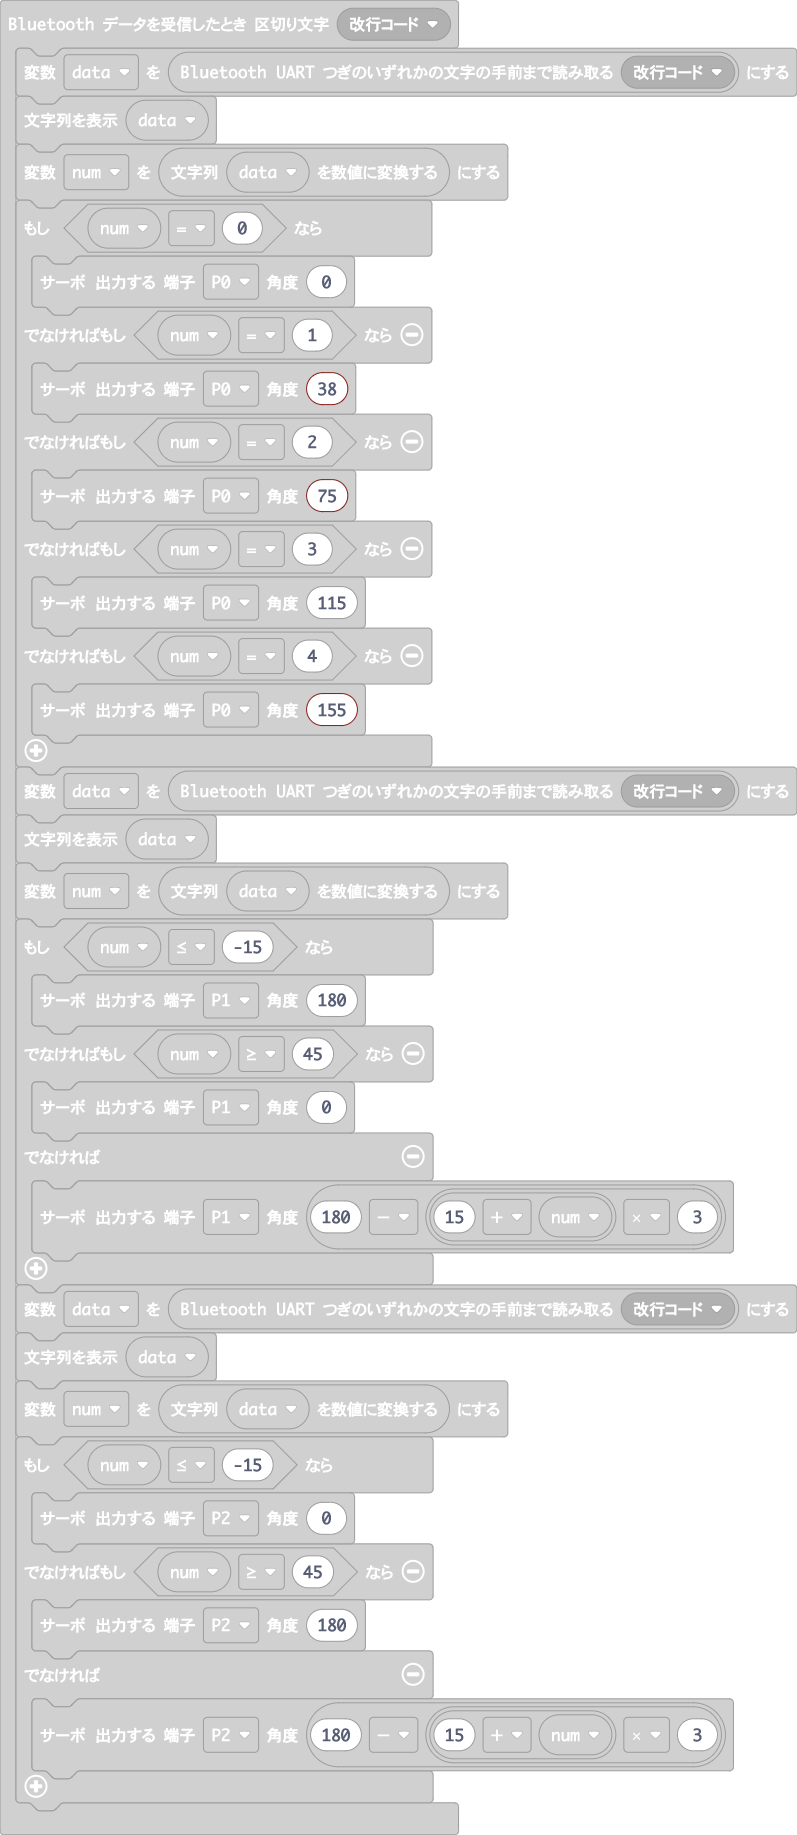
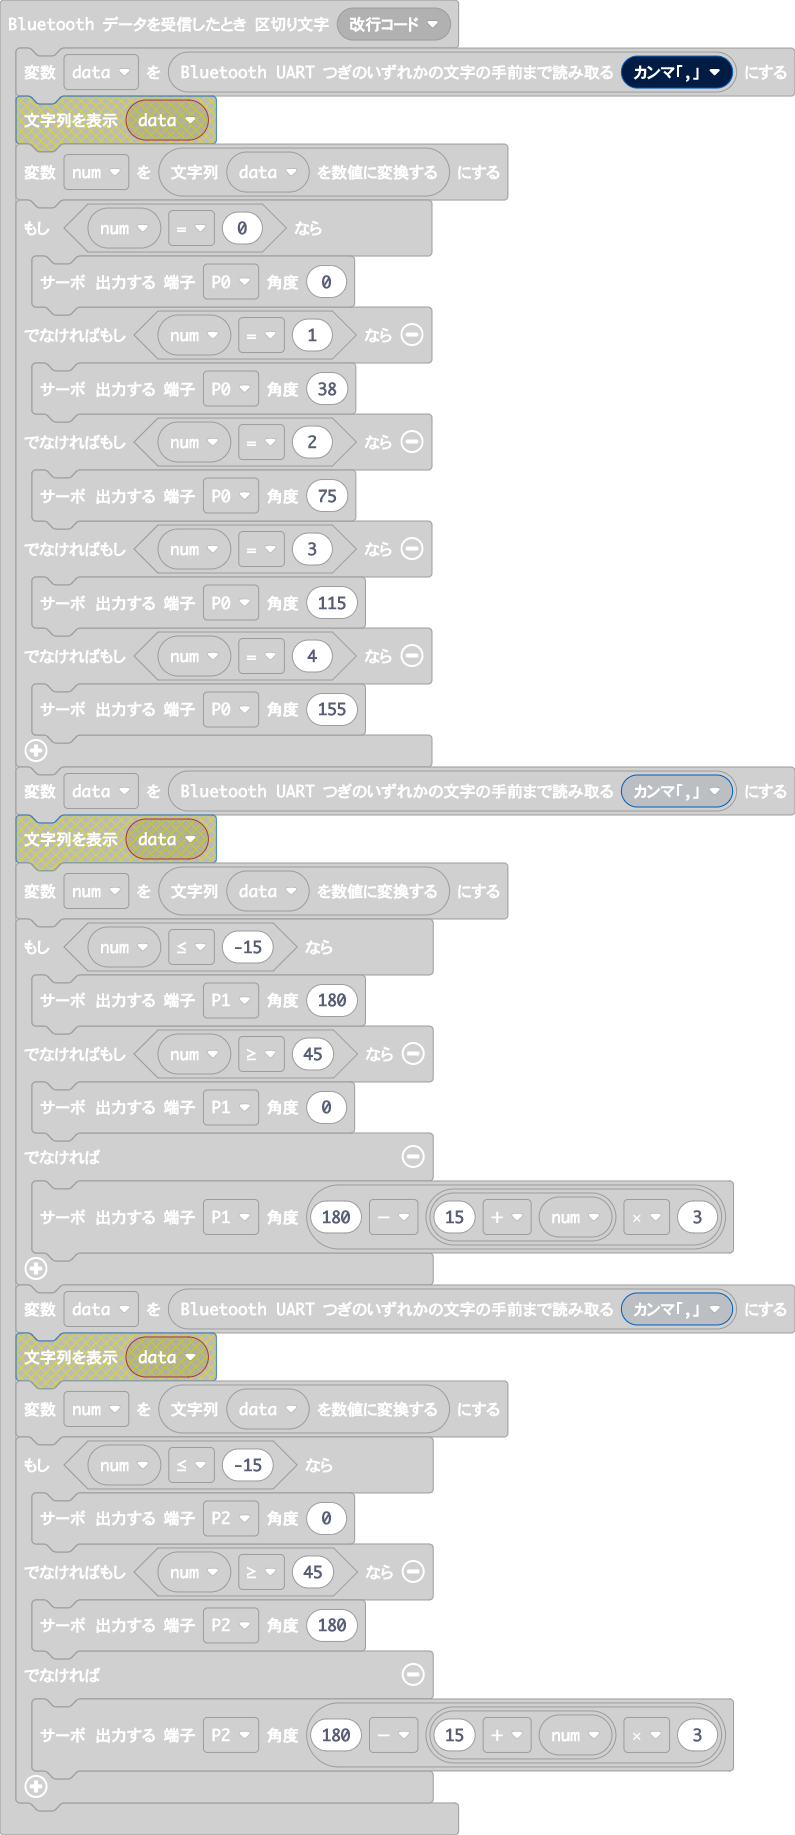
更新 main.blocks, main.ts

diff --git a/main.ts b/main.ts
@@ -5,8 +5,7 @@ bluetooth.onBluetoothDisconnected(function () {
     basic.showIcon(IconNames.No)
 })
 bluetooth.onUartDataReceived(serial.delimiters(Delimiters.NewLine), function () {
-    data = bluetooth.uartReadUntil(serial.delimiters(Delimiters.NewLine))
-    basic.showString(data)
+    data = bluetooth.uartReadUntil(serial.delimiters(Delimiters.Comma))
     num = parseFloat(data)
     if (num == 0) {
         pins.servoWritePin(AnalogPin.P0, 0)
@@ -19,8 +18,7 @@ bluetooth.onUartDataReceived(serial.delimiters(Delimiters.NewLine), function () 
     } else if (num == 4) {
         pins.servoWritePin(AnalogPin.P0, 155)
     }
-    data = bluetooth.uartReadUntil(serial.delimiters(Delimiters.NewLine))
-    basic.showString(data)
+    data = bluetooth.uartReadUntil(serial.delimiters(Delimiters.Comma))
     num = parseFloat(data)
     if (num <= -15) {
         pins.servoWritePin(AnalogPin.P1, 180)
@@ -29,8 +27,7 @@ bluetooth.onUartDataReceived(serial.delimiters(Delimiters.NewLine), function () 
     } else {
         pins.servoWritePin(AnalogPin.P1, 180 - (15 + num) * 3)
     }
-    data = bluetooth.uartReadUntil(serial.delimiters(Delimiters.NewLine))
-    basic.showString(data)
+    data = bluetooth.uartReadUntil(serial.delimiters(Delimiters.Comma))
     num = parseFloat(data)
     if (num <= -15) {
         pins.servoWritePin(AnalogPin.P2, 0)
